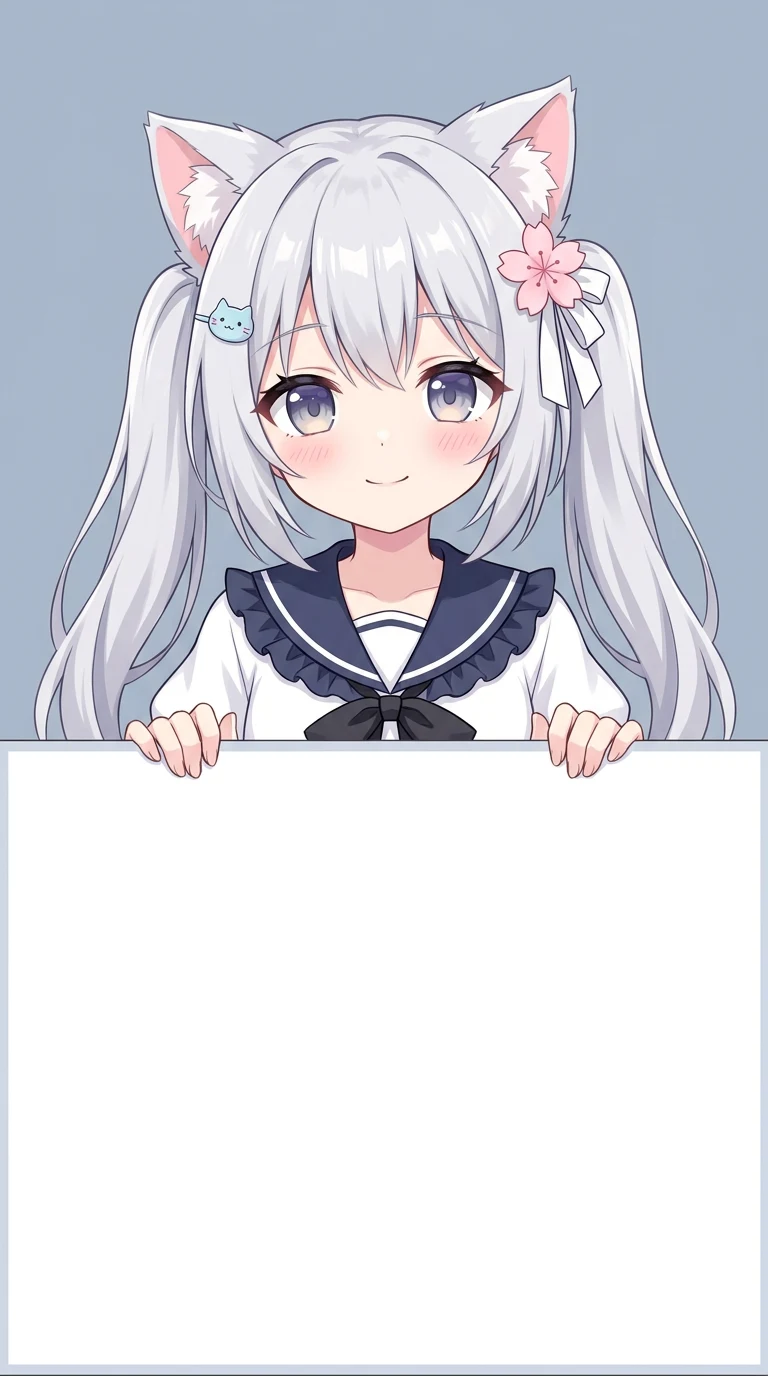
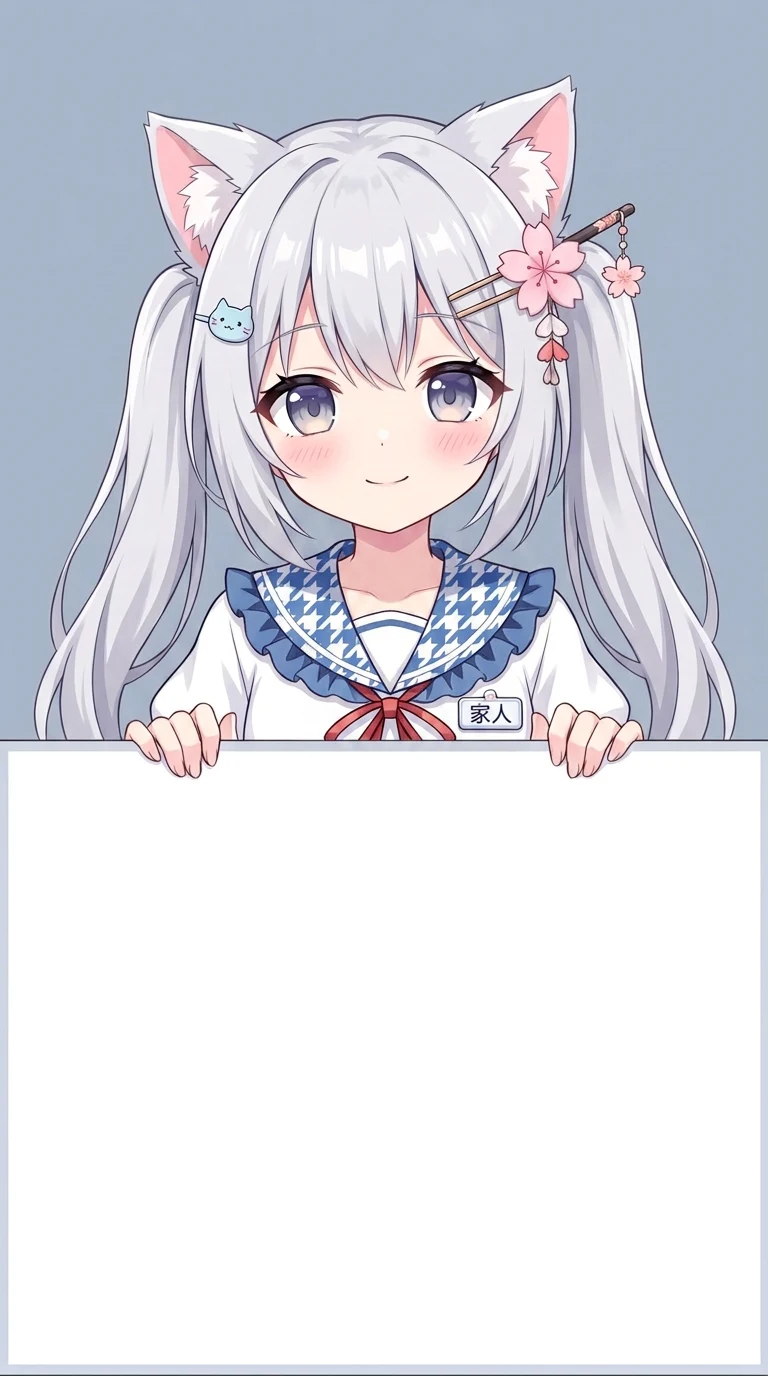
feat(web): 二次元皮肤适配夜版；JP 补日本元素、两台 NoSla 都挂「家人」铭牌
- 夜版：--anime-sign / --anime-sign-line 另给一份暗色值，卡片子树里那几个浅色令牌
  限定在 :not([data-theme="dark"]) 下；立绘在夜版里只裁到牌沿（768/752，浅色仍 768/775）
  并压一档亮度——不然深色牌面上会露一条 20 多像素的白牌面
- 立绘：JP 加日本元素（樱花簪 / 千鸟格水手领 / 红白缎带）；两台都在胸口别一枚白底黑字的
  「家人」铭牌（fal edit 以原立绘为底图，只加这一件）
- 守卫：ui-smoke 加三条夜版断言（暗色牌子令牌 / 浅色令牌的 not() 限定 / 夜版裁切比例）

Changed region(s): [[0.2812, 0.375, 0.7188, 0.5625], [0.6875, 0.125, 0.8438, 0.3125], [0.5938, 0.1875, 0.6875, 0.25]]

diff --git a/web/anime.css b/web/anime.css
@@ -104,6 +104,8 @@
   --anime-shadow-sm: 0 2px 6px rgb(0 0 0 / 0.55);
   --anime-shadow-md: 0 10px 24px rgb(0 0 0 / 0.6);
 
+  --anime-sign: #1d2130;
+  --anime-sign-line: #2c3149;
   --subtle: #6f7791;
   --line: var(--anime-border);
   --glass-bg-elevated: var(--anime-elevated);
@@ -600,14 +602,18 @@ html[data-skin="anime"] .anime-stage[data-cast="de-nosla-fra"] {
   background-image: url("/anime/de-nosla-fra.webp");
 }
 
-/* 深色下立绘压一档亮度，免得那块浅色底在夜版里刺眼 */
+/* 深色下立绘压一档亮度，免得那块浅色底在夜版里刺眼；并且**只裁到牌子顶沿**
+   （浅色下裁到 775，会露出 20 多像素白牌面——夜版里牌子是深色的，露白就对不上了）。 */
 html[data-skin="anime"][data-theme="dark"] .anime-stage {
-  filter: brightness(0.9) saturate(0.96);
+  aspect-ratio: 768 / 752;
+  background-color: #262b3c;
+  filter: brightness(0.82) saturate(0.94);
 }
 
-/* 卡片 = 她举着的那块牌子：**两套主题下都是白底黑字**（牌子是实物，夜版里也不是黑的），
-   所以这里把卡片子树里的令牌就地覆盖成浅色那套，只有页面本体跟着 data-theme 变。 */
-html[data-skin="anime"] .node-card {
+/* 卡片 = 她举着的那块牌子。浅色下牌子是白面深字（跟立绘里画的那块白牌一致），
+   夜版里牌子跟着夜色变深（立在--anime-sign / --anime-sign-line 上），
+   所以卡片子树里那几个令牌只在浅色下就地覆盖成浅色那套。 */
+html[data-skin="anime"]:not([data-theme="dark"]) .node-card {
   --ink: #232838;
   --muted: #7c8496;
   --subtle: #aab1c4;
@@ -617,6 +623,9 @@ html[data-skin="anime"] .node-card {
   --glass-border: #e6e8f4;
   --glass-border-subtle: #eff1f9;
   --progress-track: #eef0f8;
+}
+
+html[data-skin="anime"] .node-card {
   background: var(--anime-sign);
   border: 1px solid var(--anime-sign-line);
   box-shadow: var(--anime-shadow-sm);
